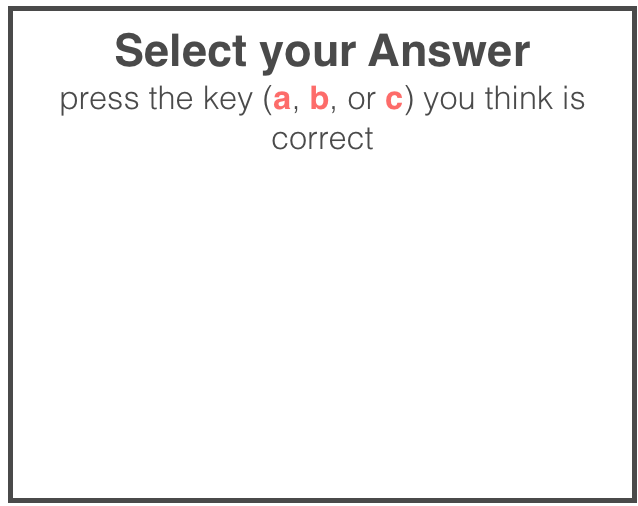
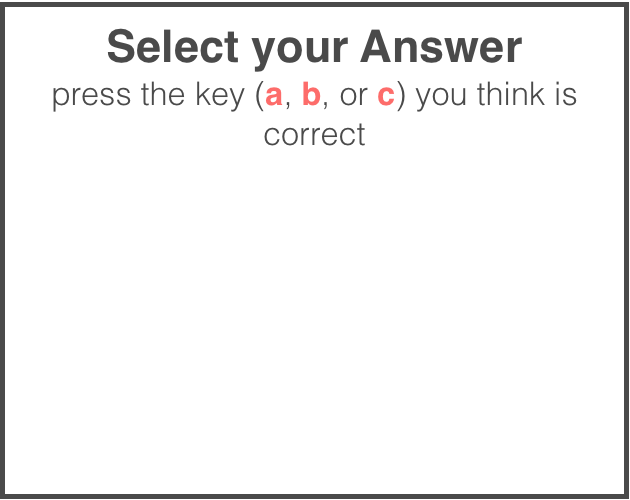
commit for merge, minor updates to quesiton and item

Changed region(s): [[0.0603, 0.06, 0.9349, 0.3], [0.0, 0.0, 1.0, 1.0]]

diff --git a/THE_GAME/game/Item.py b/THE_GAME/game/Item.py
@@ -6,6 +6,7 @@ class Item(spyral.Sprite):
     def __init__(self, scene, name):
         super(Item, self).__init__(scene)
         self.name = name
+        self.gem_value = 0
         self.layer = 'bottom'
 
     def setScene(self,scene):
@@ -20,16 +21,20 @@ class Item(spyral.Sprite):
         self.y = y
 
     def setFraction(self):
-        self.top_number = random.randint(1,3)
-        top = Text(str(self.top_number)).getimage()
+        top_number = random.randint(1,3)
+        top = Text(str(top_number)).getimage()
         self.image.draw_image(top, position=(12, 5))
-        self.bottom_number = random.randint(4,12)
-        bottom = Text(str(self.bottom_number)).getimage()
-        if (self.bottom_number > 9):
+        bottom_number = random.randint(4,12)
+        bottom = Text(str(bottom_number)).getimage()
+
+        self.gem_value = top_number/bottom_number
+
+        if (bottom_number > 9):
             self.image.draw_image(bottom,position=(6,25) )
-        elif(self.bottom_number <= 9):
+        elif(bottom_number <= 9):
             self.image.draw_image(bottom,position=(12,25) )
 
+        
 class Text(spyral.Image):
         def __init__(self,text):
             font = spyral.Font("libraries/spyral/resources/fonts/DejaVuSans.ttf", 20)

diff --git a/THE_GAME/game/Q.py b/THE_GAME/game/Q.py
@@ -92,7 +92,7 @@ class Question(spyral.Sprite):
             answer_text = QuestionText("I'm Sorry", 30).getImage()
             sub_text = QuestionText("The correct answer is " + str(self.current_question[4]) , 25).getImage()
         self.image.draw_image(answer_text, position = (100,100))
-        self.image.draw_image(sub_text, position = (75,150))
+        self.image.draw_image(sub_text, position = (100,150))
 
     def returnScene(self):
         self.kill()

diff --git a/THE_GAME/game/Board.py b/THE_GAME/game/Board.py
@@ -46,8 +46,9 @@ class Board(spyral.Scene):
 ##                    self.question.setReturnScene(self)
 ##                    self.question.openQuestion(item)
                     self.question = Q.Question(self)
-                    item.x = 90000
+                    item.kill()
                 elif (item.name == "gem"):
+                    i
                     item.kill()
 
                 

diff --git a/THE_GAME/game/PlayerSelectionScene.py b/THE_GAME/game/PlayerSelectionScene.py
@@ -73,7 +73,7 @@ class PlayerSelectionSceneMain(spyral.Scene):
 				#	gameBoard.setBackGround("game/sceneImages/2.jpg")
 				#else:
 
-				gameBoard.setMonster()
+				#gameBoard.setMonster()
 				gameBoard.setBackGround("game/sceneImages/14_12_9.bmp")
 				gameBoard.setCharacter(character)
 				gameBoard.setHealth()

diff --git a/THE_GAME/game/Character.py b/THE_GAME/game/Character.py
@@ -13,6 +13,7 @@ BG_COLOR = (255,255,255)
 BLACK = (0, 0, 255)
 SIZE = (WIDTH, HEIGHT)
 SIZE2 = (WIDTH/2, HEIGHT/2)
+GEM_VALUE = 0
 
 class Character(spyral.Sprite):
     def __init__(self):
